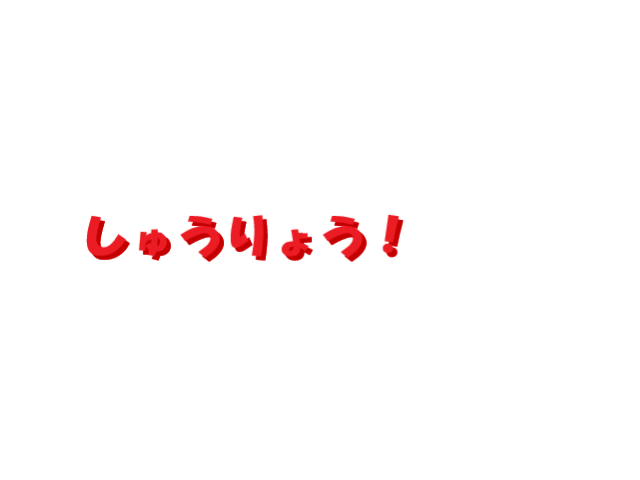
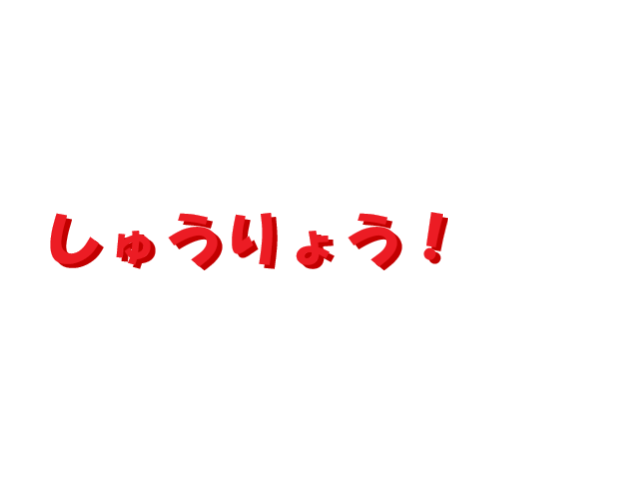
画像の変更、座標の変更、描画色の変更をしました

Changed region(s): [[0.0625, 0.4375, 0.7188, 0.5625]]

diff --git a/applegame/applegame/main.cpp b/applegame/applegame/main.cpp
@@ -263,9 +263,9 @@ void DrawRanking(void) {
 	//ランキング一覧を表示
 	/*SetFontSize(30);*/
 	for (int i = 0; i < RANKING_DATA; i++) {
-		DrawFormatStringToHandle(105, 150 + i * 50, 0x000000, FontHandle4, "%2d", g_Ranking[i].no);
-		DrawFormatStringToHandle(105 + 36 * 2, 150 + i * 50, 0x000000, FontHandle4, "%-10s", g_Ranking[i].name);
-		DrawFormatStringToHandle(105 + 36 * 3 + 180, 150 + i * 50, 0x000000, FontHandle4, "%10d", g_Ranking[i].score);
+		DrawFormatStringToHandle(90, 150 + i * 50, 0x000000, FontHandle4, "%2d", g_Ranking[i].no);
+		DrawFormatStringToHandle(90 + 36 * 2, 150 + i * 50, 0x000000, FontHandle4, "%-10s", g_Ranking[i].name);
+		DrawFormatStringToHandle(90 + 36 * 3 + 180, 150 + i * 50, 0x000000, FontHandle4, "%10d", g_Ranking[i].score);
 	}
 
 	DrawGraph(185, 418, g_BImage[0], TRUE);
@@ -381,15 +381,15 @@ void BackScrool() {
 	//スコア等表示領域
 	DrawBox(500, 0, 640, 480, 0x009900, TRUE);
 
-	DrawFormatStringToHandle(511, 40, 0x000000,FontHandle3, "のこりじかん");
+	DrawFormatStringToHandle(511, 40, 0xfdeca6,FontHandle3, "のこりじかん");
 	DrawFormatStringToHandle(535, 70, 0xffffff, FontHandle1, "%02d", g_TimeLimit / 60); //制限時間の描画
 
 	//スコアの描画
-	DrawFormatStringToHandle(533, 170, 0x000000, FontHandle3, "てんすう");
+	DrawFormatStringToHandle(533, 170, 0xfdeca6, FontHandle3, "てんすう");
 	DrawFormatStringToHandle(518, 200, 0xFFFFFF, FontHandle2, "%06d", g_Score);
 
 	//獲得したりんごの個数を描画
-	DrawFormatStringToHandle(520, 275, 0x000000, FontHandle3, "とったかず");
+	DrawFormatStringToHandle(520, 275, 0xfdeca6, FontHandle3, "とったかず");
 	DrawRotaGraph(535, 325, 0.9f, 0, g_Teki[2], TRUE, FALSE);
 	DrawRotaGraph(535, 375, 0.9f, 0, g_Teki[1], TRUE, FALSE);
 	DrawRotaGraph(535, 425, 0.9f, 0, g_Teki[0], TRUE, FALSE);
@@ -440,10 +440,10 @@ void DrawGameOver(void) {
 	DrawGraph(0, 0, g_TimeupImage, TRUE);
 
 	if (g_Score > g_Ranking[RANKING_DATA - 1].score) {
-		DrawGraph(115, 433, g_BImage[1], TRUE);
+		DrawGraph(115, 418, g_BImage[1], TRUE);
 	}
 	else {
-		DrawGraph(115, 433, g_BImage[0], TRUE);
+		DrawGraph(115, 418, g_BImage[0], TRUE);
 	}
 }
 
